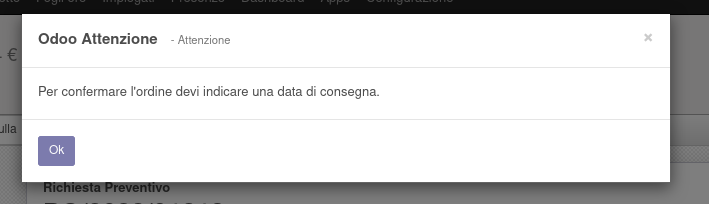
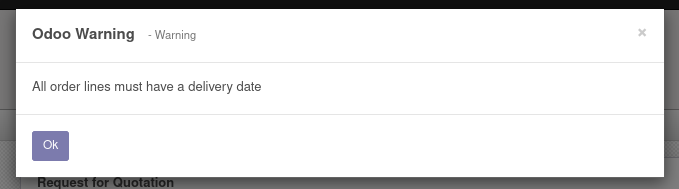
refactoring

Changed region(s): [[0.0, 0.0, 1.0, 1.0], [0.0, 0.0, 0.0309, 0.0265]]

diff --git a/models/purchase_order.py b/models/purchase_order.py
@@ -1,0 +1,31 @@
+# -*- coding: utf-8 -*-
+
+from odoo import models, fields, api, exceptions, _
+import logging
+_logger = logging.getLogger(__name__)
+
+class PurchaseOrder(models.Model):
+    _inherit = "purchase.order"
+
+    delivery_date = fields.Date(string='Delivery date', required=False)
+
+    @api.multi
+    def button_confirm(self):
+        order_lines = self.env['purchase.order.line'].search_read([('order_id','=',self.id)], order="delivery_date asc")
+        for order_line in order_lines:
+            if order_line['delivery_date'] == False:
+                raise exceptions.UserError(_("All order lines must have a delivery date"))
+            
+            date_order = fields.Date.from_string(self.date_order)
+            delivery_date = fields.Date.from_string(order_line['delivery_date'])
+            if (delivery_date > date_order) == False:
+                raise exceptions.UserError(_("A delivery date prior to or equal to the order date cannot be entered."))
+
+        last_line = order_lines[-1]
+        self.write({'delivery_date':last_line['delivery_date']})
+        super(PurchaseOrder, self).button_confirm()
+
+    @api.multi
+    def button_cancel(self):
+        self.write({'delivery_date':False})
+        super(PurchaseOrder, self).button_cancel()

diff --git a/models/purchase_order_line.py b/models/purchase_order_line.py
@@ -4,19 +4,11 @@ from odoo import models, fields, api, exceptions, _
 import logging
 _logger = logging.getLogger(__name__)
 
-class PurchaseOrder(models.Model):
-    _inherit = "purchase.order"
+class PurchaseOrderLine(models.Model):
+    _inherit = "purchase.order.line"
 
     delivery_date = fields.Date(string='Delivery date', required=False)
 
-    @api.multi
-    def button_confirm(self):
-        for order in self:
-            if order.delivery_date == False:
-                raise exceptions.UserError(_("To confirm the order you have to indicate the delivery date."))
-            else:
-                super(PurchaseOrder,self).button_confirm()
-    
     @api.multi
     def write(self, vals):
         if 'delivery_date' in vals and vals['delivery_date']:
@@ -25,6 +17,6 @@ class PurchaseOrder(models.Model):
 
             if (delivery_date > date_order) == False:
                 raise exceptions.UserError(_("A delivery date prior to or equal to the order date cannot be entered."))
-
-        res = super(PurchaseOrder, self).write(vals)
+        
+        res = super(PurchaseOrderLine, self).write(vals)
         return res

diff --git a/__manifest__.py b/__manifest__.py
@@ -12,7 +12,7 @@
     'depends': ["purchase"],
     'data': [
         "views/purchase_order_view.xml",
-        "report/report_purchaseorder_document.xml",
+        'report/report_purchaseorder_document.xml'
     ],
     'license': 'AGPL-3',
     'installable': True,

diff --git a/models/__init__.py b/models/__init__.py
@@ -1,3 +1,4 @@
 # -*- coding: utf-8 -*-
 
-from . import models
+from . import purchase_order
+from . import purchase_order_line

diff --git a/README.md b/README.md
@@ -1,14 +1,18 @@
 # This module adds delivery date field in purchase order.
 
-### Add field in purchase order
+### Add **delivery date** field in purchase order and order line
 
 ![Image](images/1.png "a field")
 
-### Raises an error if no delivery date is given during confirmation
+only the order line field can be edited, if you try to confirm the order without entering the dates a warning message will appear:
 
 ![Image](images/2.png "error")
 
-### If order is confirmed the delivery date field is not editable
+If you attempt to save a date earlier than the order date
 
-![Image](images/3.png "edit")
+![Image](images/3.png "error2")
+
+after order confirm the farthest delivery date will be indicated in the **Delivery date** field within the order
+
+![Image](images/4.png "confirm")
 
